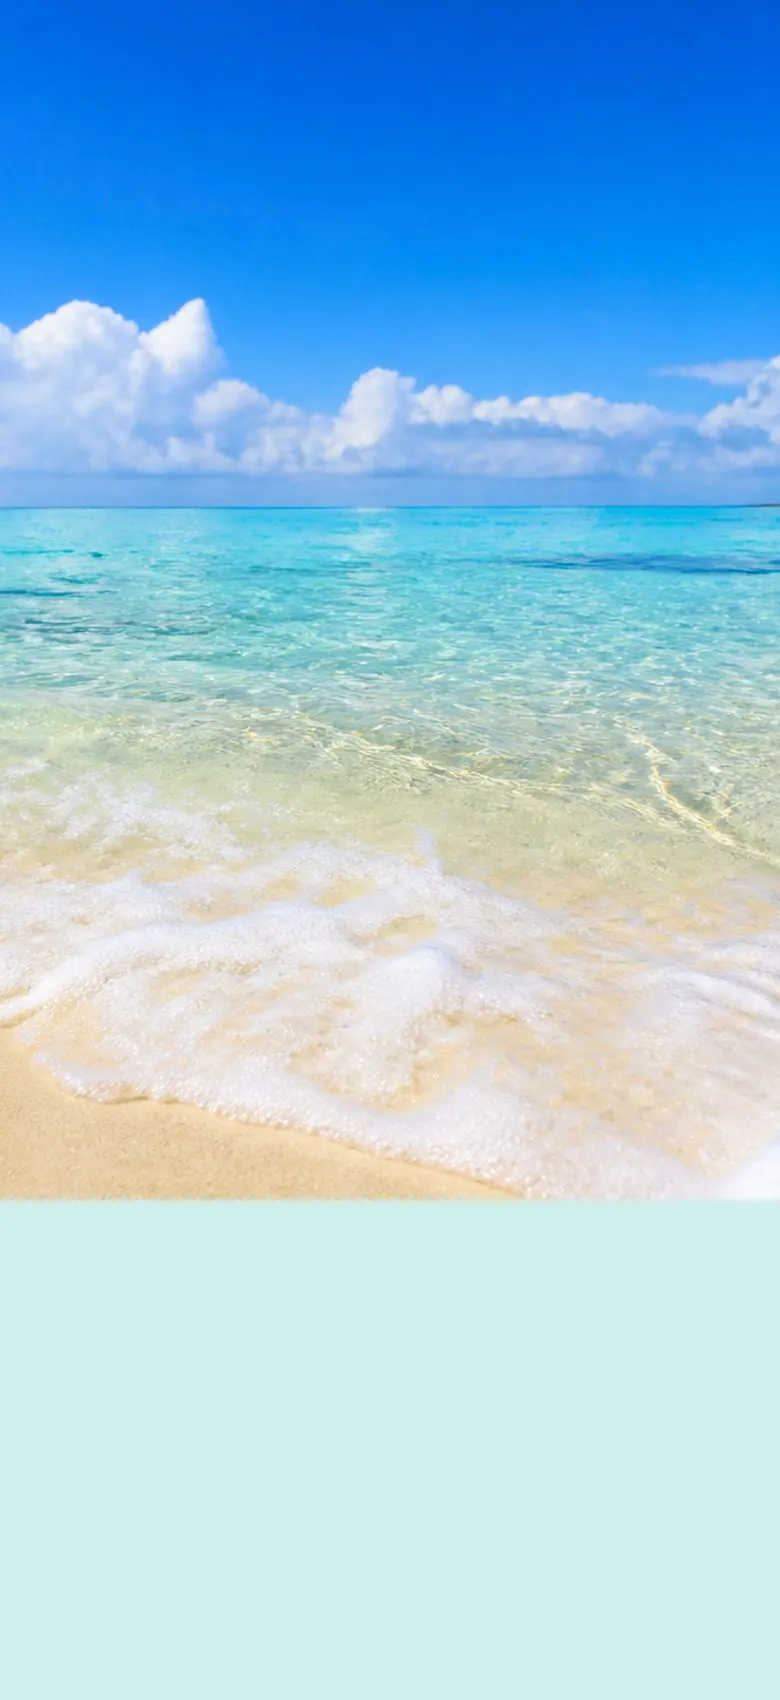
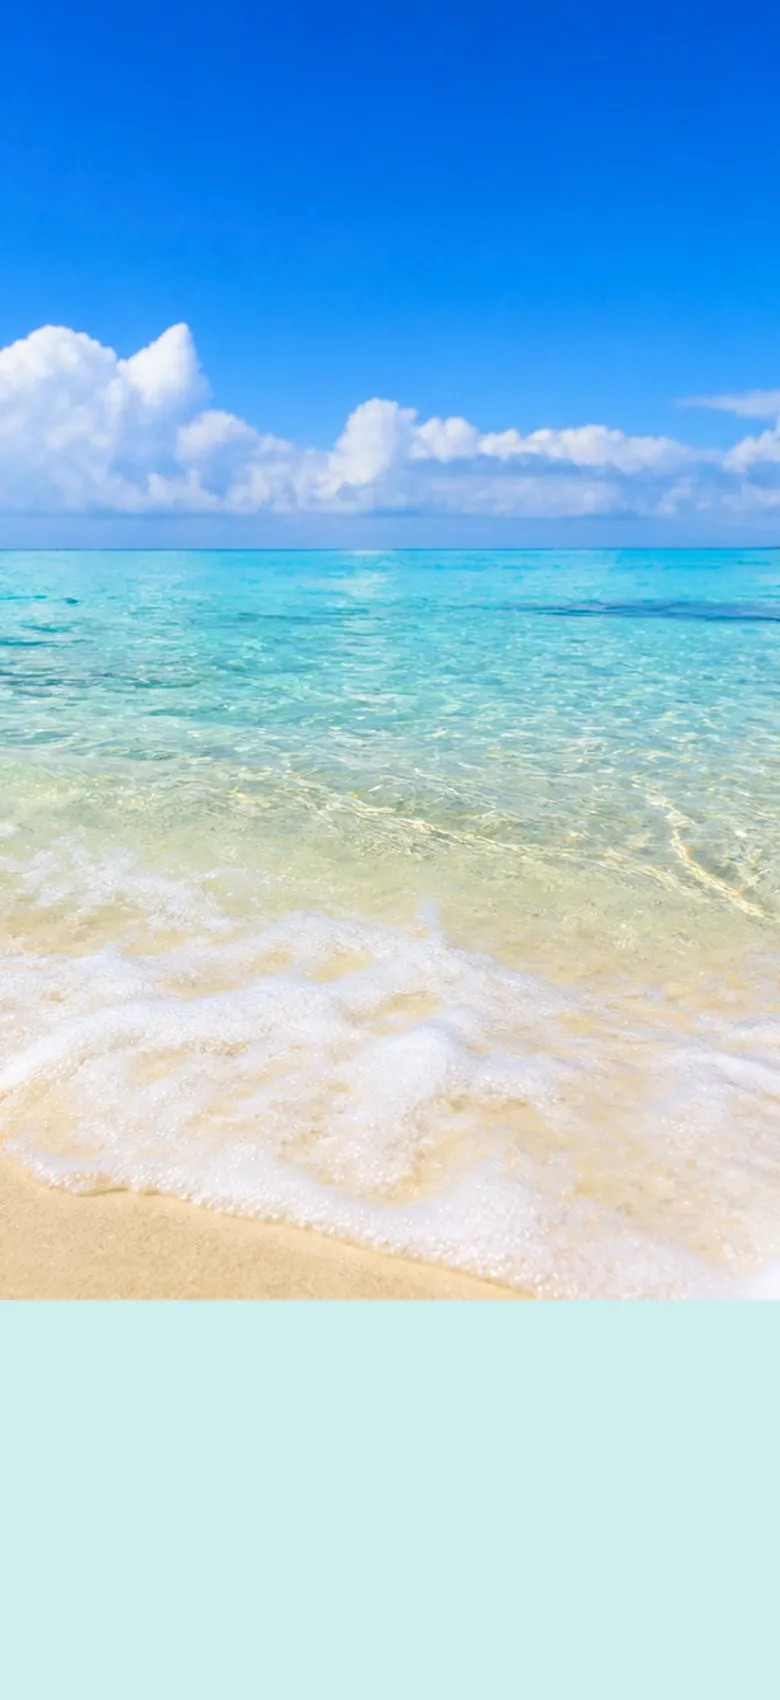
ヒーローの見出しを1か所にまとめて一体感を出す

diff --git a/assets/css/style.css b/assets/css/style.css
@@ -23,11 +23,11 @@ img{display:block;max-width:100%;height:auto}a{color:inherit;text-decoration:non
 @keyframes zoom{from{transform:scale(1.07)}to{transform:scale(1)}}
 @keyframes tide{from{transform:translateY(7%);opacity:.2}to{transform:none;opacity:1}}
 @keyframes up{from{opacity:0;transform:translateY(20px)}to{opacity:1;transform:none}}
-.hero__t1{position:absolute;left:5vw;top:7.4vw;color:#fff;animation:up 1.2s .4s both}
+.hero__t1{position:absolute;left:5vw;top:7vw;color:#fff;animation:up 1.2s .4s both}
 .hero h1{font-size:clamp(12px,1.04vw,18px);letter-spacing:.1em;line-height:1.5;margin-bottom:.9vw}
 .hero__copy{font-size:clamp(28px,3.06vw,56px);font-weight:600;line-height:1.3;letter-spacing:.07em}
-.hero__t2{position:absolute;left:5vw;top:38vw;animation:up 1.2s 1.1s both}
-.hero__copy2{font-size:clamp(22px,2.5vw,44px);font-weight:600;line-height:1.44;letter-spacing:.08em}
+.hero__t2{position:absolute;left:5vw;top:39.6vw;animation:up 1.2s 1.1s both}
+.hero__sub{font-size:clamp(15px,1.39vw,25px);font-weight:600;letter-spacing:.1em;line-height:1.6;margin-top:.7vw}
 .hero__lead{font-size:clamp(11.5px,.98vw,17px);line-height:1.78;margin:.9vw 0 1.3vw}
 .btn--hero{background:var(--teal);color:#fff;min-width:200px}.btn--hero:hover{background:var(--deep);border-color:var(--deep);color:#fff}
 .hd .logo{color:#fff}.nav{color:#fff}.nav .btn{background:#fff0;border-color:#fff;color:#fff}.nav .btn:hover{background:#fff;color:var(--teal)}
@@ -74,7 +74,7 @@ figure{margin:0}figcaption{font:500 12px/2 var(--en);letter-spacing:.27em;color:
   .hd{padding:24px 24px 0}.logo b{font-size:24px}.burger{display:block;position:relative;z-index:40}
   .nav{position:fixed;inset:0;background:#fffffff5;flex-direction:column;justify-content:center;gap:26px;font-size:16px;opacity:0;visibility:hidden;transition:opacity .3s;z-index:30}.nav.is-open{opacity:1;visibility:visible}
   .burger[aria-expanded=true] span{background:var(--deep)}.burger[aria-expanded=true] span:first-child{transform:translateY(5px) rotate(20deg)}.burger[aria-expanded=true] span:last-child{transform:translateY(-5px) rotate(-20deg)}
-  .sp{display:inline}.hero{height:218vw;min-height:0}.hero__t1{left:24px;top:20vw}.hero h1{font-size:12.5px;margin-bottom:6px}.hero__copy{font-size:min(5.6vw,22px);letter-spacing:.02em;white-space:nowrap}.hero__t2{left:24px;right:24px;top:89vw;bottom:4vw;display:flex;flex-direction:column;align-items:flex-start}.hero__copy2{font-size:min(5.1vw,20px);letter-spacing:.02em;white-space:nowrap}.hero__lead{display:none}.btn--hero{margin-top:auto;width:100%}.nav{color:var(--ink)}.nav .btn{border-color:var(--teal);color:var(--teal)}
+  .sp{display:inline}.hero{height:218vw;min-height:0}.hero__t1{left:24px;top:20vw}.hero h1{font-size:12.5px;margin-bottom:6px}.hero__copy{font-size:min(5.6vw,22px);letter-spacing:.02em;white-space:nowrap}.hero__t2{left:24px;right:24px;top:174vw;bottom:4vw;display:flex;flex-direction:column}.hero__sub{font-size:min(3.3vw,13px);letter-spacing:.01em;white-space:nowrap;margin-top:2px}.hero__lead{font-size:12.5px;letter-spacing:0;margin:0}.pcs{display:none}.btn--hero{margin-top:auto;width:100%}.nav{color:var(--ink)}.nav .btn{border-color:var(--teal);color:var(--teal)}
   .vhead{position:static;writing-mode:horizontal-tb;font-size:24px;letter-spacing:.1em;line-height:1.5}.vhead span{position:static;display:block;font-size:11px;margin-top:4px}
   .about__body br,.hero__lead br{display:none}.about{display:flex;flex-direction:column;align-items:stretch;gap:24px;padding:60px 24px 90px}.about .vhead{order:-1}.about img{height:300px}.about__body .btn{width:100%}
   .gallery{padding:0 0 30px;display:flex;flex-direction:column;gap:20px}.gallery .vhead{order:-1;padding:30px 24px 0}.gallery__wrap{width:100%}.loop img{width:170px;height:150px}

diff --git a/index.html b/index.html
@@ -9,7 +9,7 @@
 <link rel="preconnect" href="https://fonts.googleapis.com">
 <link rel="preconnect" href="https://fonts.gstatic.com" crossorigin>
 <link rel="stylesheet" href="https://fonts.googleapis.com/css2?family=Shippori+Mincho:wght@500;600&family=Cormorant+Garamond:wght@500;600&display=swap">
-<link rel="stylesheet" href="assets/css/style.css?v=7">
+<link rel="stylesheet" href="assets/css/style.css?v=9">
 </head>
 <body>
 <header class="hd" id="top">
@@ -27,15 +27,15 @@
 
 <main>
 <section class="hero">
-  <picture><source media="(max-width:900px)" srcset="assets/img/h3-sea-sp.webp"><img class="hero__bg" src="assets/img/h3-sea.webp" alt="明るい水色の沖縄の海" width="2160" height="1350"></picture>
-  <picture><source media="(max-width:900px)" srcset="assets/img/h3-layer-sp.webp?v=3"><img class="hero__layer" src="assets/img/h3-layer.webp?v=3" alt="波打ち際の先の白い壁に飾った、海のレジンアートの作品" width="2160" height="1350"></picture>
+  <picture><source media="(max-width:900px)" srcset="assets/img/h3-sea-sp.webp?v=2"><img class="hero__bg" src="assets/img/h3-sea.webp?v=2" alt="明るい水色の沖縄の海" width="2160" height="1350"></picture>
+  <picture><source media="(max-width:900px)" srcset="assets/img/h3-layer-sp.webp?v=4"><img class="hero__layer" src="assets/img/h3-layer.webp?v=4" alt="波打ち際の先の白い壁に飾った、海のレジンアートの作品" width="2160" height="1350"></picture>
   <div class="hero__t1">
     <h1>海のレジンアート販売｜沖縄のアトリエ</h1>
     <p class="hero__copy">まるで、そこに海があるように。</p>
+    <p class="hero__sub">沖縄の海を、レジンアートに。壁にも、テーブルにも。</p>
   </div>
   <div class="hero__t2">
-    <p class="hero__copy2">沖縄の海を、<br class="pc">部屋に飾るアートに。</p>
-    <p class="hero__lead">家具職人歴17年以上の手で、美しい海や<br>砂浜、サンゴ礁を立体で表現しています。<br>見る人に、いやしと感動的な非日常空間を。</p>
+    <p class="hero__lead">家具職人歴17年以上の手で、美しい海や<br>砂浜、サンゴ礁を立体で表現しています。<br><span class="pcs">見る人に、いやしと感動的な非日常空間を。</span></p>
     <a class="btn btn--hero" href="#works">作品を見る</a>
   </div>
 </section>
